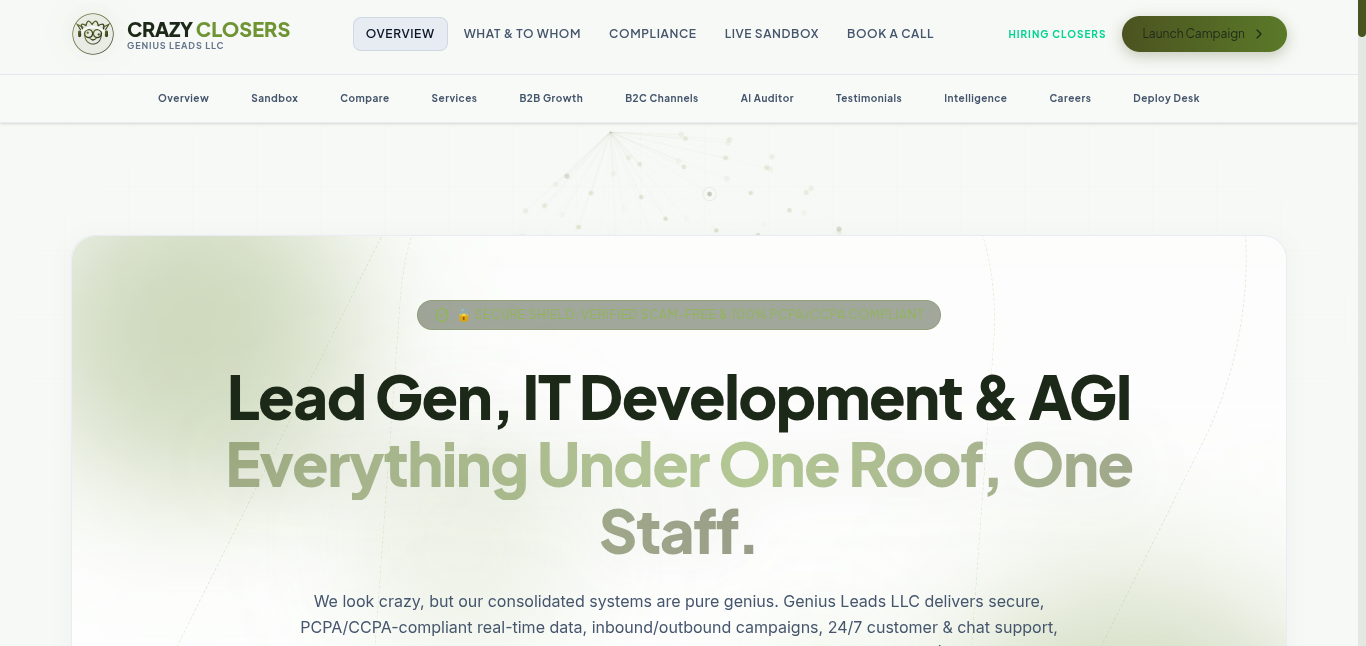
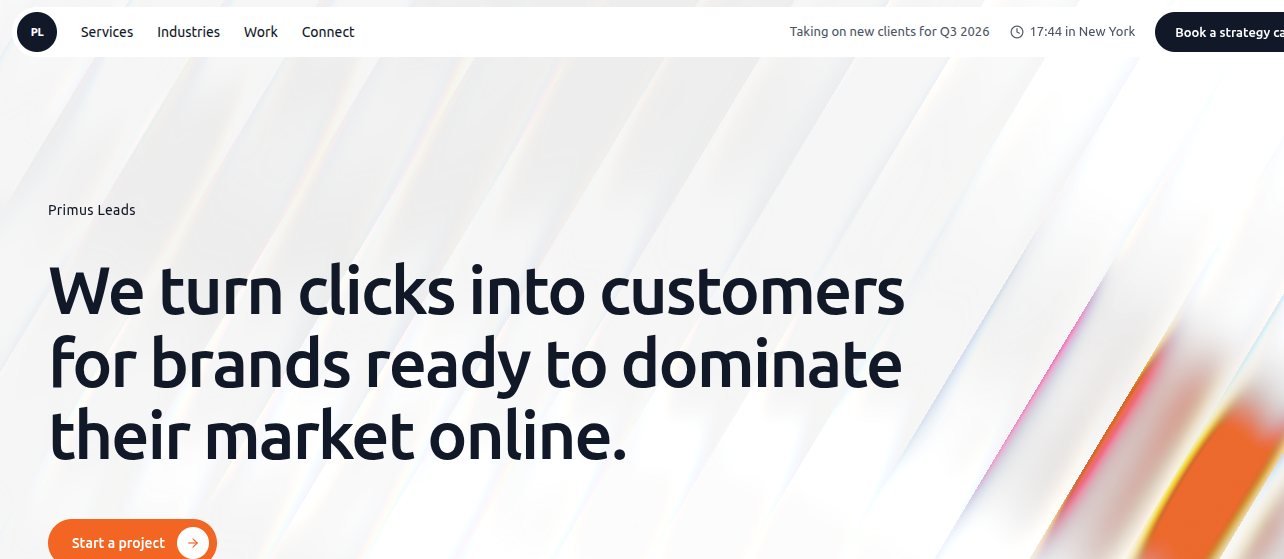
Map Primus Leads thumbnail to primusleadsllc.png

diff --git a/src/data/hassaanData.ts b/src/data/hassaanData.ts
@@ -340,7 +340,7 @@ export const staticProjects: LocalProject[] = [
     desc: "Crazy Closers (Genius Leads LLC) — Brand Gateway lead-gen & compliance site providing high-performance landing pages and input validation tests.",
     url: "https://github.com/hklogs/crazy-closers",
     tech: ["TypeScript", "Next.js", "Tailwind CSS", "Framer Motion"],
-    thumbnail: "/crazy_leads_thumb.png",
+    thumbnail: "/primus_leads_llc_thumb.png",
     usecase: "Generates verified B2B customer leads and automates initial outreach validation sequences for brand growth.",
     working: "Scrapes public directory listings, cleans contact data strings using local expressions, and personalizes outreach emails."
   },